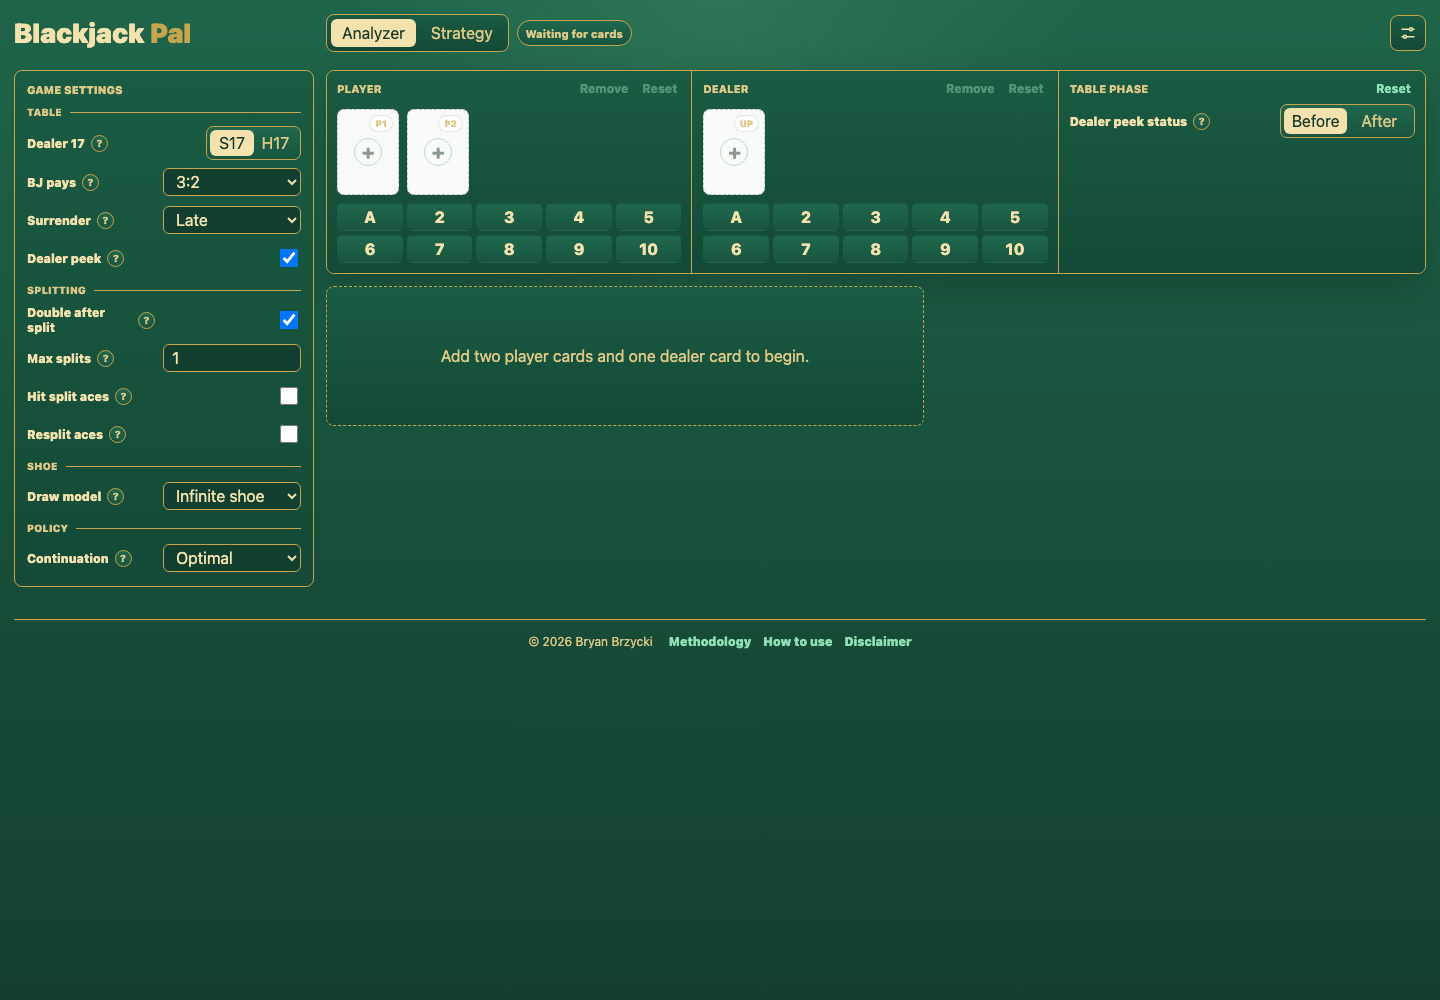
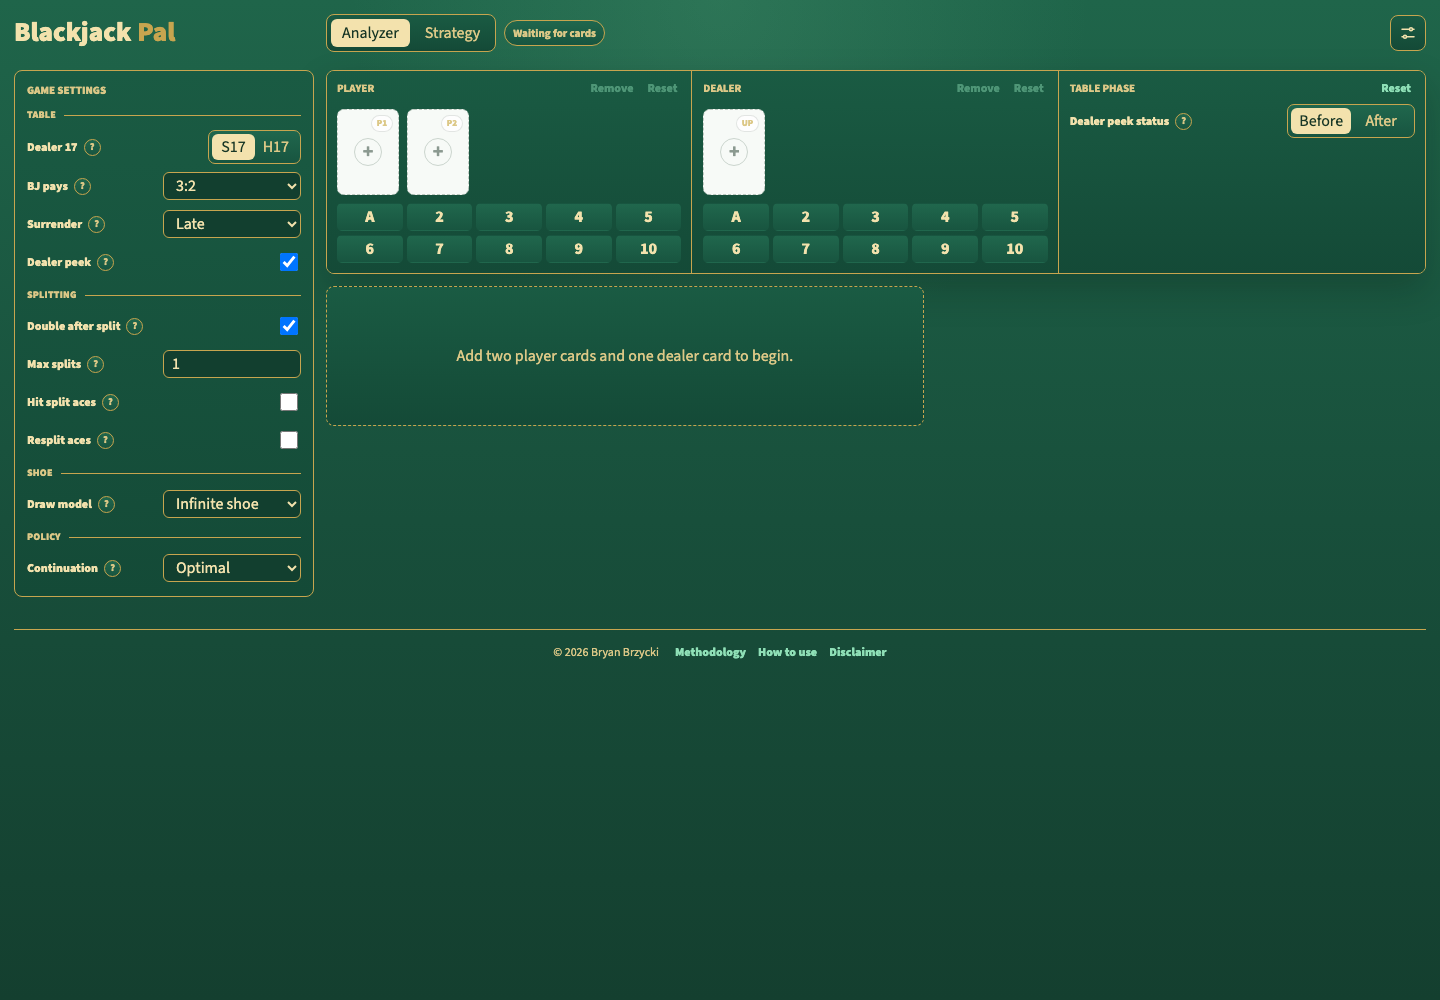
Update images and refine layout for improved presentation

diff --git a/src/main.jsx b/src/main.jsx
@@ -196,25 +196,26 @@ function HomePage() {
       image: "/images/2019-09-27.jpg",
     },
   }[mode];
+  const spotlightImageFit = mode === "personal" ? "object-cover" : "object-contain";
 
   return (
     <>
       <section className="relative isolate overflow-hidden bg-zinc-950 text-white">
         <SignalCanvas />
         <div className="absolute inset-0 bg-[radial-gradient(circle_at_20%_20%,rgba(20,184,166,0.28),transparent_34%),radial-gradient(circle_at_80%_10%,rgba(244,114,182,0.22),transparent_32%),linear-gradient(180deg,rgba(9,9,11,0.12),rgba(9,9,11,0.92))]" />
-        <div className="relative mx-auto grid min-h-[calc(100vh-4rem)] max-w-7xl items-end gap-10 px-4 py-12 sm:px-6 lg:grid-cols-[1.1fr_0.9fr] lg:px-8 lg:py-16">
-          <div className="max-w-4xl pb-6">
-            <div className="mb-6 inline-flex items-center gap-2 rounded-full border border-white/15 bg-white/10 px-3 py-2 text-sm text-white/80 backdrop-blur">
+        <div className="relative mx-auto grid max-w-7xl items-center gap-8 px-4 py-10 sm:px-6 lg:grid-cols-[1.12fr_0.88fr] lg:px-8 lg:py-12">
+          <div className="max-w-4xl">
+            <div className="mb-4 inline-flex items-center gap-2 rounded-full border border-white/15 bg-white/10 px-3 py-2 text-sm text-white/80 backdrop-blur">
               <Orbit size={16} />
               PhD astrophysics, Berkeley 2024 / Harvard 2018
             </div>
-            <h1 className="text-balance text-5xl font-semibold leading-[0.95] sm:text-7xl lg:text-8xl">
+            <h1 className="text-balance text-5xl font-semibold leading-[0.95] sm:text-6xl lg:text-7xl">
               Bryan Brzycki
             </h1>
-            <p className="mt-6 max-w-2xl text-pretty text-lg leading-8 text-zinc-200 sm:text-xl">
+            <p className="mt-4 max-w-3xl text-pretty text-base leading-7 text-zinc-200 sm:text-lg">
               I like solving interesting problems with math, statistics, machine learning, and software. Sometimes that means searching for narrowband radio signals. Sometimes it means building small tools, watching too much sports, or making something just because the idea is stuck in my head.
             </p>
-            <div className="mt-8 flex flex-wrap gap-3">
+            <div className="mt-6 flex flex-wrap gap-3">
               <PrimaryLink to="/about">Open the full story</PrimaryLink>
               <SecondaryLink to="/publications">Explore papers</SecondaryLink>
               <a href="mailto:bryan@bryanbrzycki.com" className="inline-flex items-center gap-2 rounded-full border border-white/20 px-5 py-3 text-sm font-semibold text-white transition hover:border-white hover:bg-white hover:text-zinc-950">
@@ -223,8 +224,8 @@ function HomePage() {
               </a>
             </div>
           </div>
-          <div className="pb-8">
-            <div className="relative overflow-hidden rounded-[2rem] border border-white/15 bg-white/10 p-3 shadow-2xl shadow-black/40 backdrop-blur-xl">
+          <div>
+            <div className="relative mx-auto max-w-md overflow-hidden rounded-[2rem] border border-white/15 bg-white/10 p-3 shadow-2xl shadow-black/40 backdrop-blur-xl lg:mr-0">
               <img className="aspect-[4/5] w-full rounded-[1.45rem] object-cover" src="/images/bbrzycki_profile_3024x3024.jpg" alt="Bryan Brzycki" />
               <div className="absolute inset-x-6 bottom-6 rounded-3xl border border-white/15 bg-zinc-950/75 p-4 backdrop-blur-xl">
                 <div className="grid grid-cols-3 gap-3 text-center">
@@ -239,7 +240,7 @@ function HomePage() {
       </section>
 
       <section className="border-b border-zinc-200 bg-white">
-        <div className="mx-auto grid max-w-7xl gap-5 px-4 py-6 sm:grid-cols-2 sm:px-6 lg:grid-cols-4 lg:px-8 xl:grid-cols-8">
+        <div className="mx-auto grid max-w-7xl gap-4 px-4 py-5 sm:grid-cols-2 sm:px-6 lg:grid-cols-4 lg:px-8 xl:grid-cols-8">
           {[
             { label: "About", href: "/about", icon: Compass },
             { label: "Papers", href: "/publications", icon: BookOpen },
@@ -256,13 +257,13 @@ function HomePage() {
       </section>
 
       <section className="bg-stone-50">
-        <div className="mx-auto max-w-7xl px-4 py-16 sm:px-6 lg:px-8">
+        <div className="mx-auto max-w-7xl px-4 py-12 sm:px-6 lg:px-8">
           <SectionHeading
-            eyebrow="Start here"
-            title="A few ways in."
-            body="Most of the material fits into a few buckets. Pick the one that matches what you came here for."
+            eyebrow="Browse"
+            title="What are you looking for?"
+            body="Research, code, talks, small web apps, and personal interests."
           />
-          <div className="mt-8 grid gap-5 lg:grid-cols-[0.45fr_0.55fr]">
+          <div className="mt-6 grid gap-5 lg:grid-cols-[18rem_minmax(0,1fr)]">
             <div className="rounded-[2rem] border border-zinc-200 bg-white p-3 shadow-sm">
               <div className="grid gap-2">
                 {focusModes.map((item) => {
@@ -273,7 +274,7 @@ function HomePage() {
                       key={item.id}
                       type="button"
                       onClick={() => setMode(item.id)}
-                      className={`flex items-center justify-between rounded-[1.4rem] p-5 text-left transition ${
+                      className={`flex items-center justify-between rounded-[1.4rem] p-4 text-left transition ${
                         active ? "bg-zinc-950 text-white" : "bg-stone-50 text-zinc-700 hover:bg-zinc-100"
                       }`}
                     >
@@ -296,17 +297,17 @@ function HomePage() {
                 })}
               </div>
             </div>
-            <article className="overflow-hidden rounded-[2rem] border border-zinc-200 bg-white shadow-sm">
-              <div className="grid lg:grid-cols-[0.9fr_1.1fr]">
-                <div className="p-7 sm:p-8">
+            <article className="min-w-0 overflow-hidden rounded-[2rem] border border-zinc-200 bg-white shadow-sm">
+              <div className="grid lg:grid-cols-[minmax(0,1fr)_minmax(18rem,0.8fr)]">
+                <div className="min-w-0 p-6 sm:p-7">
                   <p className="text-sm font-semibold uppercase tracking-[0.2em] text-teal-700">{spotlight.kicker}</p>
-                  <h2 className="mt-4 text-3xl font-semibold tracking-tight text-zinc-950 sm:text-4xl">{spotlight.title}</h2>
+                  <h2 className="mt-3 text-3xl font-semibold tracking-tight text-zinc-950">{spotlight.title}</h2>
                   <p className="mt-4 leading-7 text-zinc-600">{spotlight.body}</p>
                   <Link to={spotlight.href} className="mt-6 inline-flex items-center gap-2 rounded-full bg-zinc-950 px-5 py-3 text-sm font-semibold text-white">
                     Go deeper <ArrowRight size={17} />
                   </Link>
                 </div>
-                <img className="h-full min-h-80 w-full object-cover" src={spotlight.image} alt="" />
+                <img className={`h-full min-h-72 w-full bg-white ${spotlightImageFit}`} src={spotlight.image} alt="" />
               </div>
             </article>
           </div>
@@ -314,13 +315,13 @@ function HomePage() {
       </section>
 
       <section className="border-t border-zinc-200 bg-white">
-        <div className="mx-auto max-w-7xl px-4 py-16 sm:px-6 lg:px-8">
+        <div className="mx-auto max-w-7xl px-4 py-12 sm:px-6 lg:px-8">
           <SectionHeading
             eyebrow="Live sites"
-            title="Standalone things with their own domains."
-            body="A few web apps that got big enough, or strange enough, to deserve their own little corner of the internet."
+            title="Little web apps I made."
+            body="A few small interactive sites, mostly for playing with ideas that were fun enough to put online."
           />
-          <div className="mt-8 grid gap-5 lg:grid-cols-3">
+          <div className="mt-6 grid gap-5 lg:grid-cols-3">
             {websites.map((item) => (
               <WebsiteMiniCard key={item.slug} item={item} />
             ))}
@@ -332,7 +333,7 @@ function HomePage() {
       </section>
 
       <section className="bg-zinc-950 text-white">
-        <div className="mx-auto grid max-w-7xl gap-10 px-4 py-16 sm:px-6 lg:grid-cols-[0.7fr_1.3fr] lg:px-8">
+        <div className="mx-auto grid max-w-7xl gap-8 px-4 py-12 sm:px-6 lg:grid-cols-[0.7fr_1.3fr] lg:px-8">
           <div>
             <p className="text-sm font-semibold uppercase tracking-[0.2em] text-teal-300">Threads</p>
             <h2 className="mt-4 text-4xl font-semibold tracking-tight">The themes that keep showing up.</h2>
@@ -519,7 +520,7 @@ function PublicationDetail() {
     <DetailShell back="/publications" backLabel="Papers">
       <article className="mx-auto max-w-4xl">
         <p className="text-sm font-semibold uppercase tracking-[0.2em] text-teal-700">{item.year} / {item.venue}</p>
-        <h1 className="mt-4 text-balance text-4xl font-semibold tracking-tight sm:text-6xl">{item.title}</h1>
+        <h1 className="mt-3 text-balance text-4xl font-semibold tracking-tight sm:text-5xl">{item.title}</h1>
         <p className="mt-6 text-lg leading-8 text-zinc-600">{item.summary}</p>
         <div className="mt-8 flex flex-wrap gap-3">
           <a href={item.url} className="inline-flex items-center gap-2 rounded-full bg-zinc-950 px-5 py-3 text-sm font-semibold text-white">
@@ -611,7 +612,7 @@ function TalkDetail() {
     <DetailShell back="/talks" backLabel="Talks">
       <article className="mx-auto max-w-4xl">
         <p className="text-sm font-semibold uppercase tracking-[0.2em] text-teal-700">{item.type} / {formatDate(item.date)}</p>
-        <h1 className="mt-4 text-balance text-4xl font-semibold tracking-tight sm:text-6xl">{item.title}</h1>
+        <h1 className="mt-3 text-balance text-4xl font-semibold tracking-tight sm:text-5xl">{item.title}</h1>
         <div className="mt-6 grid gap-3 text-zinc-600 sm:grid-cols-2">
           <InfoPill icon={Mic2} text={item.venue} />
           <InfoPill icon={MapPin} text={item.location} />
@@ -705,7 +706,7 @@ function ProjectDetail() {
         <div className="grid gap-8 lg:grid-cols-[0.9fr_1.1fr] lg:items-start">
           <div>
             <p className="text-sm font-semibold uppercase tracking-[0.2em] text-teal-700">Project</p>
-            <h1 className="mt-4 text-balance text-4xl font-semibold tracking-tight sm:text-6xl">{item.title}</h1>
+            <h1 className="mt-3 text-balance text-4xl font-semibold tracking-tight sm:text-5xl">{item.title}</h1>
             <p className="mt-6 text-lg leading-8 text-zinc-600">{item.summary}</p>
             <div className="mt-8 flex flex-wrap gap-3">
               {item.github && (
@@ -749,7 +750,7 @@ function WebsitesPage() {
     <PageShell
       eyebrow="Websites"
       title="Live web apps"
-      intro="Small self-contained websites I built and let live on their own subdomains."
+      intro="Small toy web apps I made and put on their own subdomains."
     >
       <div className="grid gap-6">
         {websites.map((item) => (
@@ -815,7 +816,7 @@ function WebsiteMiniCard({ item }) {
 
 function WebsiteVisual({ item, compact = false }) {
   return (
-    <div className={`min-w-0 max-w-full overflow-hidden rounded-[1.55rem] border border-zinc-200 bg-zinc-950 shadow-sm ${compact ? "aspect-[36/25]" : "aspect-[36/25]"}`}>
+    <div className={`min-w-0 max-w-full overflow-hidden rounded-[1.55rem] border border-zinc-200 bg-white shadow-sm ${compact ? "aspect-[36/25]" : "aspect-[36/25]"}`}>
       <img
         src={item.image}
         alt={`Screenshot of ${item.title}`}
@@ -1078,13 +1079,13 @@ function PageShell({ eyebrow, title, intro, children }) {
   return (
     <div className="bg-stone-50">
       <section className="border-b border-zinc-200 bg-white">
-        <div className="mx-auto max-w-7xl px-4 py-16 sm:px-6 lg:px-8">
-          <p className="text-sm font-semibold uppercase tracking-[0.22em] text-teal-700">{eyebrow}</p>
-          <h1 className="mt-4 max-w-5xl text-balance text-4xl font-semibold tracking-tight text-zinc-950 sm:text-6xl">{title}</h1>
-          <p className="mt-5 max-w-3xl text-lg leading-8 text-zinc-600">{intro}</p>
+        <div className="mx-auto max-w-7xl px-4 py-10 sm:px-6 sm:py-12 lg:px-8">
+          <p className="text-xs font-semibold uppercase tracking-[0.22em] text-teal-700 sm:text-sm">{eyebrow}</p>
+          <h1 className="mt-3 max-w-5xl text-balance text-4xl font-semibold tracking-tight text-zinc-950 sm:text-5xl">{title}</h1>
+          <p className="mt-3 max-w-4xl text-base leading-7 text-zinc-600 sm:text-lg">{intro}</p>
         </div>
       </section>
-      <section className="mx-auto max-w-7xl px-4 py-12 sm:px-6 lg:px-8">{children}</section>
+      <section className="mx-auto max-w-7xl px-4 py-8 sm:px-6 sm:py-10 lg:px-8">{children}</section>
     </div>
   );
 }
@@ -1092,13 +1093,13 @@ function PageShell({ eyebrow, title, intro, children }) {
 function DetailShell({ back, backLabel, children }) {
   return (
     <div className="bg-stone-50">
-      <div className="mx-auto max-w-7xl px-4 py-8 sm:px-6 lg:px-8">
+      <div className="mx-auto max-w-7xl px-4 py-5 sm:px-6 lg:px-8">
         <Link to={back} className="inline-flex items-center gap-2 rounded-full border border-zinc-200 bg-white px-4 py-2 text-sm font-semibold text-zinc-900 shadow-sm hover:border-zinc-950">
           <ArrowLeft size={16} />
           Back to {backLabel}
         </Link>
       </div>
-      <section className="mx-auto max-w-7xl px-4 pb-16 sm:px-6 lg:px-8">{children}</section>
+      <section className="mx-auto max-w-7xl px-4 pb-12 sm:px-6 lg:px-8">{children}</section>
     </div>
   );
 }
